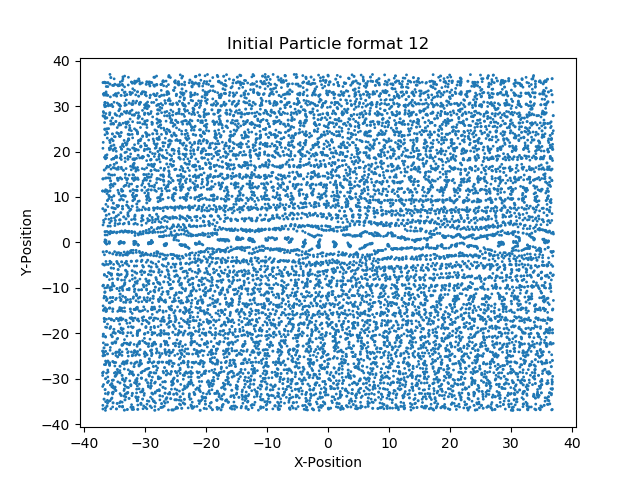
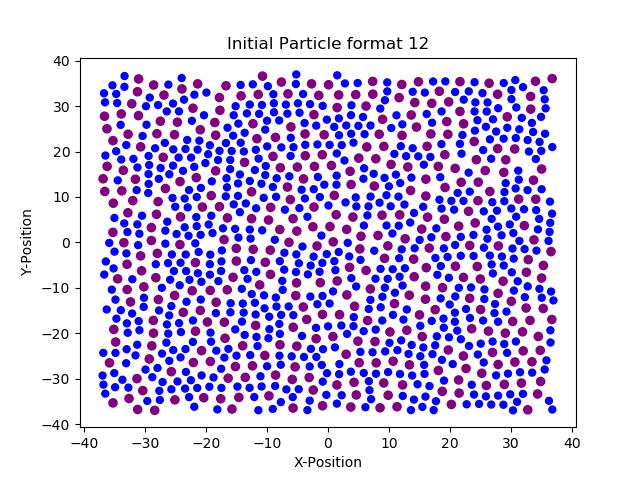
Edits. 5/11/2020
Fixed the double up of plots.

diff --git a/Chakraborty/particle.py b/Chakraborty/particle.py
@@ -4,16 +4,26 @@ import matplotlib.pyplot as plt
 import os
 # make a movie out of the various particle configs. ffmpeg
 def graphFrame(particleRadius, particleX, particleZ, counter, cwd):
-    plt.scatter(particleX, particleZ, s=particleRadius) ##look into the size variable, plotting circles.
-    # Might be over printing.
+    particleRadius = [x*25 for x in particleRadius]
+    color = [];
+    for i in range(len(particleRadius)):
+        if particleRadius[i] == 1 * 25:
+            color.append("blue");
+        elif particleRadius[i] == 1.4 * 25:
+            color.append("purple");
+        else:
+            color.append("black");
+    #look into the size variable, plotting circles.
+    plt.scatter(particleX, particleZ,c=color, s=particleRadius*20)
     plt.title('Initial Particle format ' + str(counter))
     plt.xlabel('X-Position')
     plt.ylabel('Y-Position')
     plt.savefig(cwd + "/particlePos/"+ str(counter)+".png")
+    plt.close()
     print(counter)
-    plt.show()
 
-def lineParser(currentLine, particleRadius, particleX, particleZ): #this goes through each particle in a singl frame, extracting information
+#this goes through each particle in a single frame, extracting information
+def lineParser(currentLine, particleRadius, particleX, particleZ):
     splitLine = currentLine.split(" ");
     particleRadius.append(float(splitLine[1]))
     particleX.append(float(splitLine[2]))
@@ -29,12 +39,15 @@ def main():
     particleRadius = []
     particleX = []
     particleZ = []
-    for i in range(17, (1006*60) + 17,1006*5): #130,797
+    for i in range(17, (1006*5*26) + 17,1006*5): #130,797
         temp = i
         counter = counter + 1
         for j in range(i + 6, temp + 1006):
             currentLine = listOfData[j]
             parsedLine = lineParser(currentLine, particleRadius, particleX, particleZ)
         graphFrame(particleRadius,particleX, particleZ, counter, cwd)
+        particleRadius = []
+        particleX = []
+        particleZ = []
     file.close()
 main()
